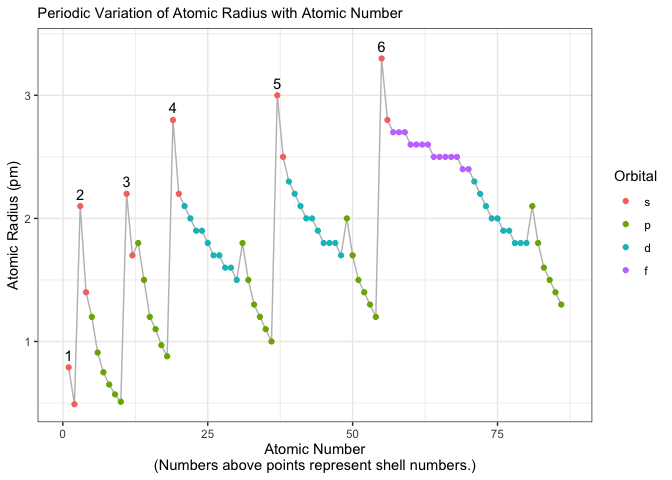
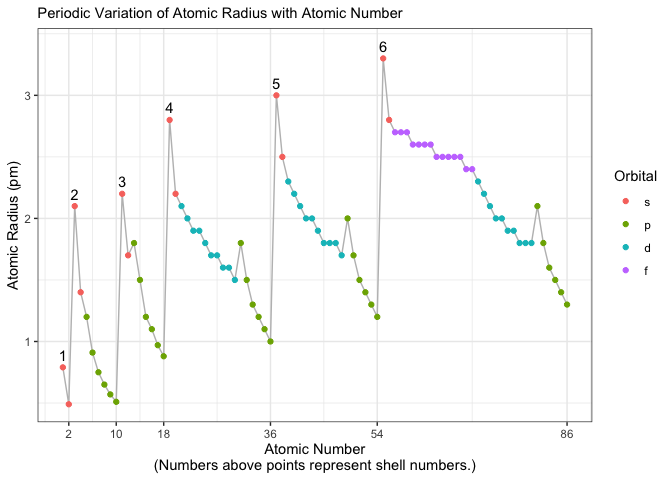
fixed

diff --git a/periodictrends.md b/periodictrends.md
@@ -94,7 +94,11 @@ Data from data from
            subtitle = "Periodic Variation of Atomic Radius with Atomic Number") +
       theme_bw() +
       geom_text(nudge_y = 0.1) +
-      xlim(0, 87)
+      xlim(0, 87) +
+      scale_x_continuous(breaks = c(2,10,18,36,54,86)) 
+
+    ## Scale for x is already present.
+    ## Adding another scale for x, which will replace the existing scale.
 
     ## Warning: Removed 80 rows containing missing values (`geom_text()`).
 
@@ -123,7 +127,7 @@ Data from data from
     ## F): attempt to set 'append' ignored
 
     df3 <- df %>%
-      select(AtomicNumber, Symbol, Element, AtomicMass,
+      select(AtomicNumber, Symbol, Element, NumberofValence, AtomicMass,
              NumberofNeutrons:NumberofElectrons) %>%
       pivot_longer(cols = AtomicMass:NumberofElectrons, 
                    names_to = "Particle", 
@@ -133,26 +137,30 @@ Data from data from
              Particle = fct_recode(Particle,
                                    "Electrons" = "NumberofElectrons",
                                     "Neutrons" = "NumberofNeutrons",
-                                   "Protons" = "NumberofProtons"))
+                                   "Protons" = "NumberofProtons"),
+             myLabel = ifelse(NumberofValence == 8 & Particle == "Protons", Symbol, ""))
 
     head(df3)
 
-    ## # A tibble: 6 × 5
-    ##   AtomicNumber Symbol Element  Particle  Value
-    ##          <int> <chr>  <chr>    <fct>     <dbl>
-    ## 1            1 H      Hydrogen Neutrons      0
-    ## 2            1 H      Hydrogen Protons       1
-    ## 3            1 H      Hydrogen Electrons     1
-    ## 4            2 He     Helium   Neutrons      2
-    ## 5            2 He     Helium   Protons       2
-    ## 6            2 He     Helium   Electrons     2
+    ## # A tibble: 6 × 7
+    ##   AtomicNumber Symbol Element  NumberofValence Particle  Value myLabel
+    ##          <int> <chr>  <chr>              <int> <fct>     <dbl> <chr>  
+    ## 1            1 H      Hydrogen               1 Neutrons      0 ""     
+    ## 2            1 H      Hydrogen               1 Protons       1 ""     
+    ## 3            1 H      Hydrogen               1 Electrons     1 ""     
+    ## 4            2 He     Helium                NA Neutrons      2 ""     
+    ## 5            2 He     Helium                NA Protons       2 <NA>   
+    ## 6            2 He     Helium                NA Electrons     2 ""
 
-    ggplot(df3, aes(x = AtomicNumber, y = Value, color = Particle, shape = Particle)) +
-      geom_point() +
+    ggplot(df3, aes(x = AtomicNumber, y = Value, label = myLabel)) +
+      geom_point(aes(color = Particle, shape = Particle)) +
       labs(x = "Atomic Number",
            y = "Number of Subatomical Particles",
            subtitle = "Number of Protrons, Neutrons, and Electrons in Atoms") +
       theme_bw() +
-      scale_x_continuous(breaks = c(2,10,18,36,54,86,118))
+      scale_x_continuous(breaks = c(2,10,18,36,54,86,118)) +
+      geom_text(size = 3, nudge_y = -5)
+
+    ## Warning: Removed 69 rows containing missing values (`geom_text()`).
 
 ![](./images/periodictrends-3.png)
